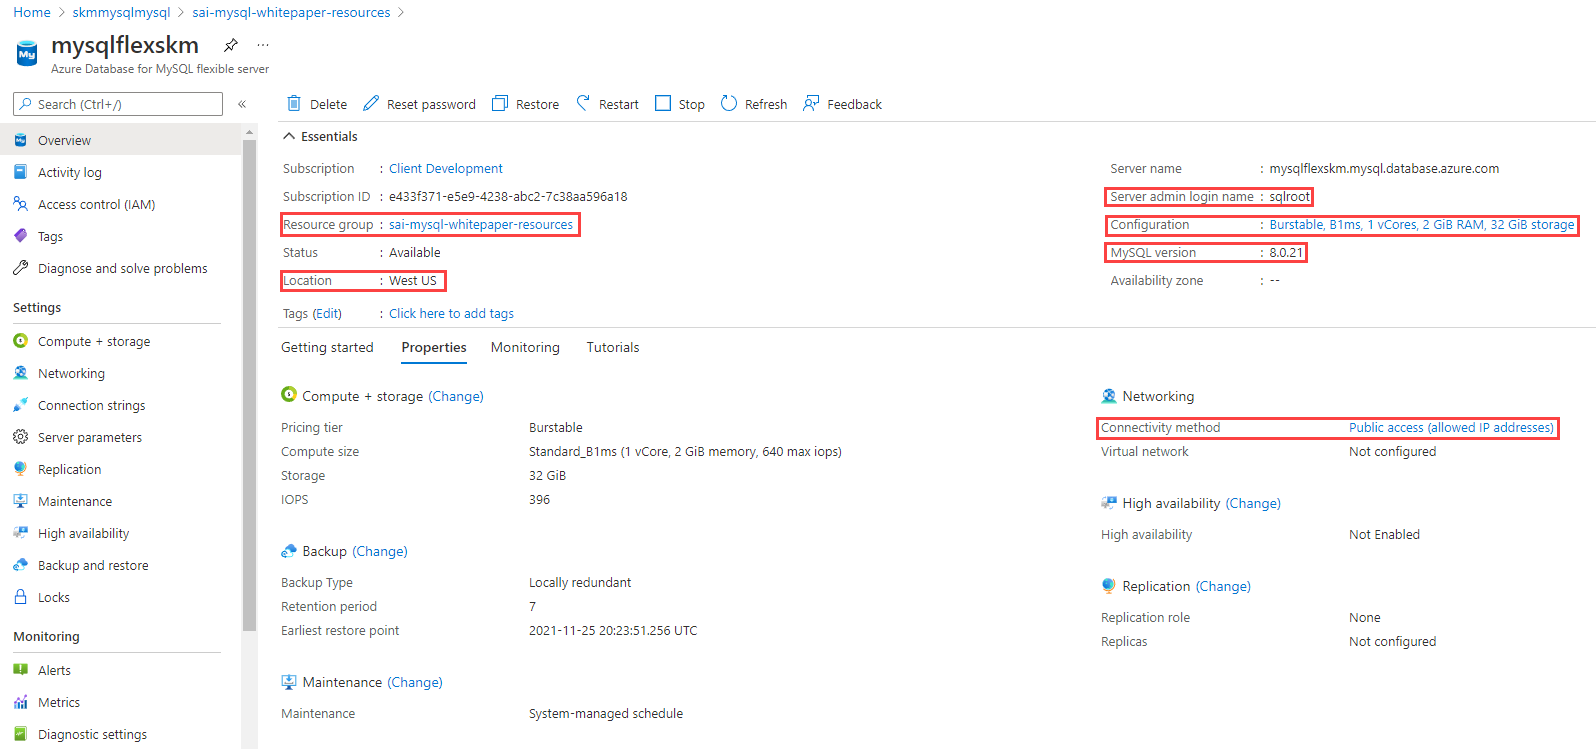
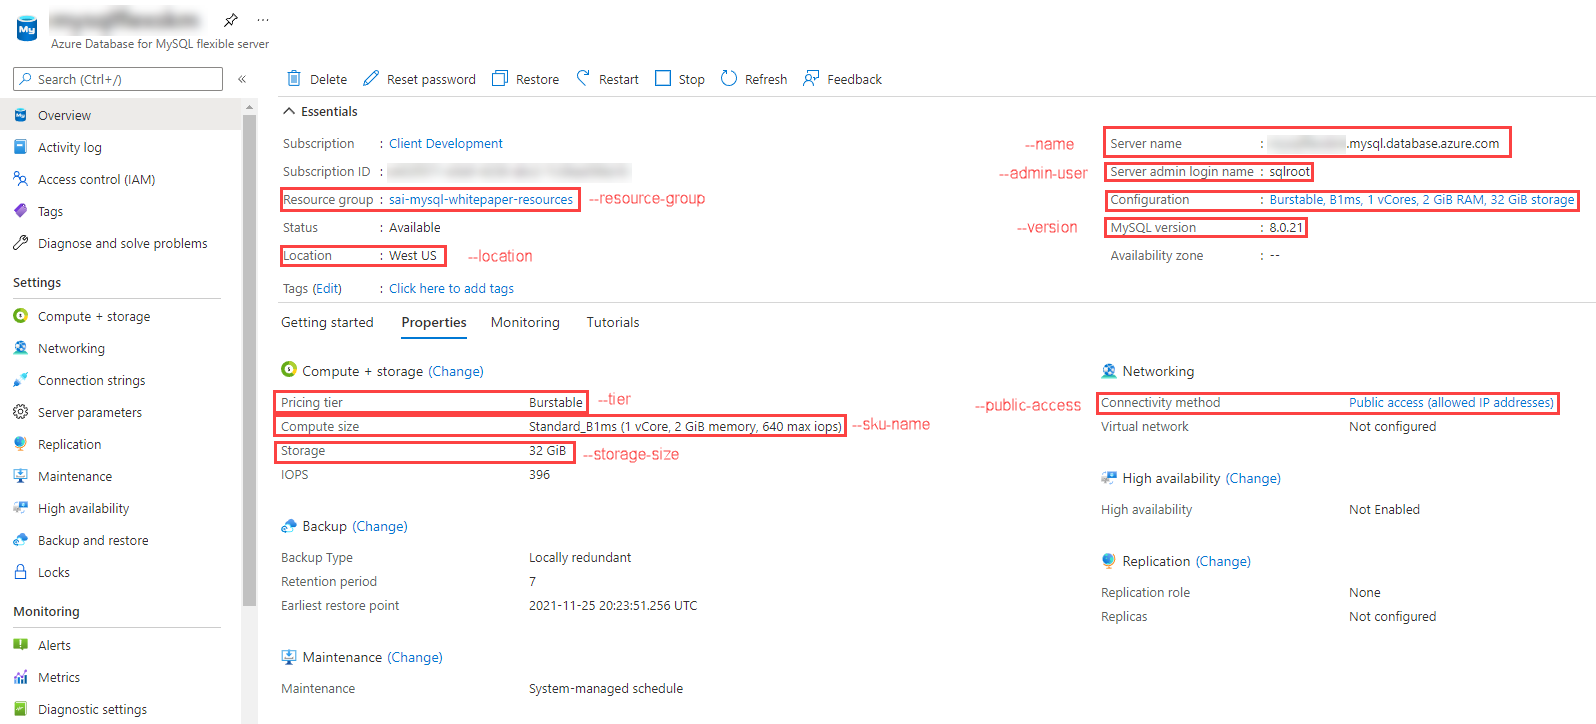
Deployment instructions added and ARM template deployment instructions moved.

diff --git a/03_GettingStarted/03_05_Provision_MySQL_Flexible_Server.md b/03_GettingStarted/03_05_Provision_MySQL_Flexible_Server.md
@@ -2,45 +2,20 @@
 
 This document illustrates how to deploy MySQL Flexible Server using various Azure management tools.
 
-## Azure Portal - TODO
+## Azure Portal
+
+Azure provides a [quickstart document](https://docs.microsoft.com/azure/mysql/flexible-server/quickstart-create-server-portal) for users who would like to use the Azure portal to provision Flexible Server. While this is a great opportunity to explore the configuration parameters of Flexible Server, IaC approaches, like the imperative Azure CLI or the declarative ARM template, are preferable to create deployments that can easily be replicated in other environments.
 
 ## Azure CLI
 
-The Azure CLI `az mysql flexible-server` set of commands is very robust. [Azure's quickstart guide](https://docs.microsoft.com/azure/mysql/flexible-server/quickstart-create-server-cli) demonstrates how the `az mysql flexible-server create` and `az mysql flexible-server db create` commands can automatically populate server parameters. You can also employ the Bash shell commands below to provide greater configuration over the deployed Flexible Server. They will create a new resource group if the given one does not already exist. Fill in the placeholders to use them.
+The Azure CLI `az mysql flexible-server` set of commands is very robust. [Azure's quickstart guide](https://docs.microsoft.com/azure/mysql/flexible-server/quickstart-create-server-cli) demonstrates how the `az mysql flexible-server create` and `az mysql flexible-server db create` commands can automatically populate server parameters. Note that it is possible to exercise greater control over these commands by reviewing the documentation for the [`flexible-server create`](https://docs.microsoft.com/cli/azure/mysql/flexible-server?view=azure-cli-latest#az_mysql_flexible_server_create) and [`flexible-server db create`](https://docs.microsoft.com/cli/azure/mysql/flexible-server/db?view=azure-cli-latest#az_mysql_flexible_server_db_create) commands.
 
-The command requires your current client public IP address to create a firewall rule to allow you to access the database. You can access it at [this](http://whatismyip.akamai.com/) link.
+> Running the CLI commands from [Azure Cloud Shell](shell.azure.com) is preferable, as the context is already authenticated with Azure.
 
-> You can execute Azure CLI commands using the [Azure Cloud Shell](shell.azure.com/bash) or install the CLI tools locally.
-
-```bash
-resourceGroup=""
-location=""
-# Unique resource identifier
-suffix=""
-# Client IP address
-clientIp=""
-
-username="sqlroot"
-# sqlroot password
-password=""
-
-serverName="mysqlflex${suffix}"
-skuName="Standard_B1ms"
-tierName="Burstable"
-
-az mysql flexible-server create --location $location --resource-group $resourceGroup --name $serverName --admin-user $username --admin-password $password --sku-name $skuName --tier $tierName --publicAccess $clientIp --storage-size 32 --version 8.0.21
-
-az mysql flexible-server db create --resource-group $resourceGroup --server-name $serverName --database-name newdatabase
-```
-
-After the commands finish executing, observe that the Flexible Server instance provisioned as expected.
+The image below, from a successful CLI provisioning attempt for Flexible Server, maps CLI flags to various Flexible Server parameters.
 
 ![This image demonstrates the MySQL Flexible Server provisioned through Bash CLI commands.](./media/mysql-flex-params.png "CLI provisioning")
 
-## ARM Template - TODO
+## ARM Template
 
-Azure provides a [quickstart document](https://docs.microsoft.com/azure/mysql/flexible-server/quickstart-create-arm-template#review-the-template) with a comprehensive ARM template for a Flexible Server deployment. The ARM template below is a simplified template that replicates the CLI deployment above.
-
-```json
-
-```
+Azure provides a [quickstart document](https://docs.microsoft.com/azure/mysql/flexible-server/quickstart-create-arm-template#review-the-template) with a comprehensive ARM template for a Flexible Server deployment. We have also provided a [sample ARM template](mysql-flexible-server-template.json) that just requires the `serverName`, `administratorLogin`, and `administratorLoginPassword` parameters to deploy: the Azure sample template requires additional parameters to run. It can be deployed with the `New-AzResourceGroupDeployment` PowerShell command in the quickstart or the `az deployment group create` CLI command.

diff --git a/03_GettingStarted/03_00_Getting_Started.md b/03_GettingStarted/03_00_Getting_Started.md
@@ -1,50 +1,1 @@
-# Getting Started
-
-1. Clone the [whitepaper GitHub repository](https://github.com/solliancenet/microsoft-mysql-developer-guide.git) to your local machine. 
-
-2. Install the [PowerShell Azure module](https://docs.microsoft.com/en-us/powershell/azure/install-az-ps?view=azps-6.6.0) if you do not already have it.
-
-    > [PowerShell Core](https://github.com/PowerShell/PowerShell)  is a cross-platform tool that is useful for managing Azure resources through the `Az` module.
-
-    > Try the `-AllowClobber` flag if the install does not succeed.
-
-3. Utilize the `Connect-AzAccount` to interactively authenticate the Azure PowerShell environment with Azure.
-
-## Create a Lab Resource Group
-
-1. Use Azure Powershell to create a new resource group. Substitute the `rgName` and `location` parameters with the name of your resource group and its location, respectively.
-
-    ```powershell
-    $rgName = ""
-    $location = ""
-    New-AzResourceGroup -Name $rgName -Location $location
-    ```
-
-## Deploy the ARM Template
-
-1. There are two ARM templates provided with the whitepaper.
-
-    - The secure deployment uses private endpoints to securely access the MySQL database instances through private IP addresses. It costs roughly ... per month.
-    - The standard deployment routes traffic to the MySQL instances over the public internet. It costs roughly ... per month.
-
-2. If you are deploying the [secure ARM template](../Artifacts/template-secure.json) (`template-secure.json`), edit the associated [parameters file](../Artifacts/template-secure.parameters.json) (`template-secure.parameters.json`).
-
-    - The `prefix` specifies a unique identifier for Azure resources
-    - The `administratorLogin` specifies the login for the Azure resources (such as MySQL and the VM)
-    - The `administratorLoginPassword` specifies the password for the deployed Azure resources
-    - The `location` should be set to an Azure region near you
-
-3. If you are deploying the [insecure ARM template](../Artifacts/template.json) (`template.json`), edit the associated [parameters file](../Artifacts/template.parameters.json) (`template.parameters.json`).
-    - The `uniqueSuffix` specifies a unique identifier for Azure resources
-    - The `administratorLogin` specifies the login for the Azure resources (such as MySQL and the VM)
-    - The `administratorLoginPassword` specifies the password for the deployed Azure resources
-    - The `vmSize` specifies the VM tier
-    - The `dnsPrefix` specifies the DNS prefix for the load balancer public IP address
-
-4. If you are deploying the secure ARM template, issue the following command from the repository root.
-
-    ```powershell
-    New-AzResourceGroupDeployment -ResourceGroupName $rgName -TemplateFile .\Artifacts\template-secure.json -TemplateParameterFile .\Artifacts\template-secure.parameters.json
-    ```
-
-    Use `template.json` and `template.parameters.json` for the insecure ARM template deployment.
+# Setup and Tools

diff --git a/Artifacts/Template_Deployment_Instructions.md b/Artifacts/Template_Deployment_Instructions.md
@@ -1,0 +1,50 @@
+# Getting Started
+
+1. Clone the [whitepaper GitHub repository](https://github.com/solliancenet/microsoft-mysql-developer-guide.git) to your local machine. 
+
+2. Install the [PowerShell Azure module](https://docs.microsoft.com/en-us/powershell/azure/install-az-ps?view=azps-6.6.0) if you do not already have it.
+
+    > [PowerShell Core](https://github.com/PowerShell/PowerShell)  is a cross-platform tool that is useful for managing Azure resources through the `Az` module.
+
+    > Try the `-AllowClobber` flag if the install does not succeed.
+
+3. Utilize the `Connect-AzAccount` to interactively authenticate the Azure PowerShell environment with Azure.
+
+## Create a Lab Resource Group
+
+1. Use Azure Powershell to create a new resource group. Substitute the `rgName` and `location` parameters with the name of your resource group and its location, respectively.
+
+    ```powershell
+    $rgName = ""
+    $location = ""
+    New-AzResourceGroup -Name $rgName -Location $location
+    ```
+
+## Deploy the ARM Template
+
+1. There are two ARM templates provided with the whitepaper.
+
+    - The secure deployment uses private endpoints to securely access the MySQL database instances through private IP addresses. It costs roughly ... per month.
+    - The standard deployment routes traffic to the MySQL instances over the public internet. It costs roughly ... per month.
+
+2. If you are deploying the [secure ARM template](../Artifacts/template-secure.json) (`template-secure.json`), edit the associated [parameters file](../Artifacts/template-secure.parameters.json) (`template-secure.parameters.json`).
+
+    - The `prefix` specifies a unique identifier for Azure resources
+    - The `administratorLogin` specifies the login for the Azure resources (such as MySQL and the VM)
+    - The `administratorLoginPassword` specifies the password for the deployed Azure resources
+    - The `location` should be set to an Azure region near you
+
+3. If you are deploying the [insecure ARM template](../Artifacts/template.json) (`template.json`), edit the associated [parameters file](../Artifacts/template.parameters.json) (`template.parameters.json`).
+    - The `uniqueSuffix` specifies a unique identifier for Azure resources
+    - The `administratorLogin` specifies the login for the Azure resources (such as MySQL and the VM)
+    - The `administratorLoginPassword` specifies the password for the deployed Azure resources
+    - The `vmSize` specifies the VM tier
+    - The `dnsPrefix` specifies the DNS prefix for the load balancer public IP address
+
+4. If you are deploying the secure ARM template, issue the following command from the repository root.
+
+    ```powershell
+    New-AzResourceGroupDeployment -ResourceGroupName $rgName -TemplateFile .\Artifacts\template-secure.json -TemplateParameterFile .\Artifacts\template-secure.parameters.json
+    ```
+
+    Use `template.json` and `template.parameters.json` for the insecure ARM template deployment.
